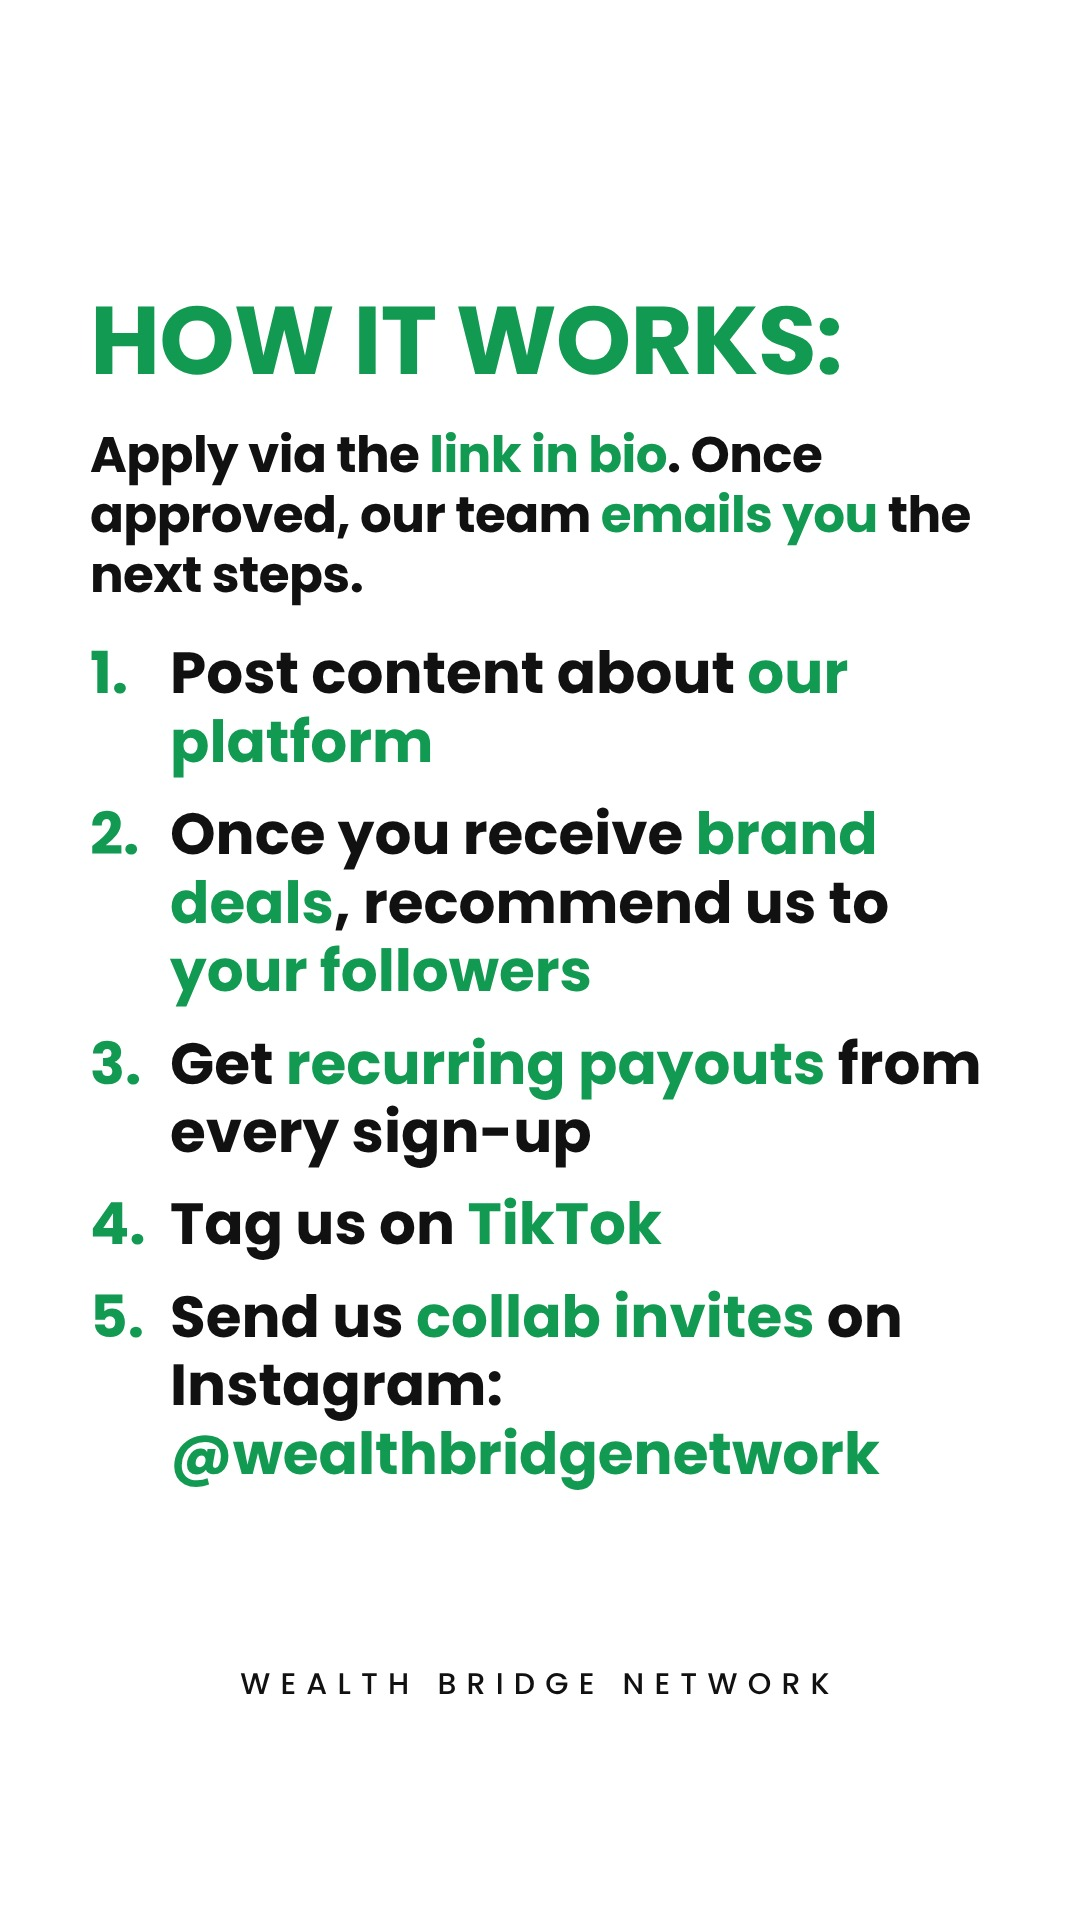
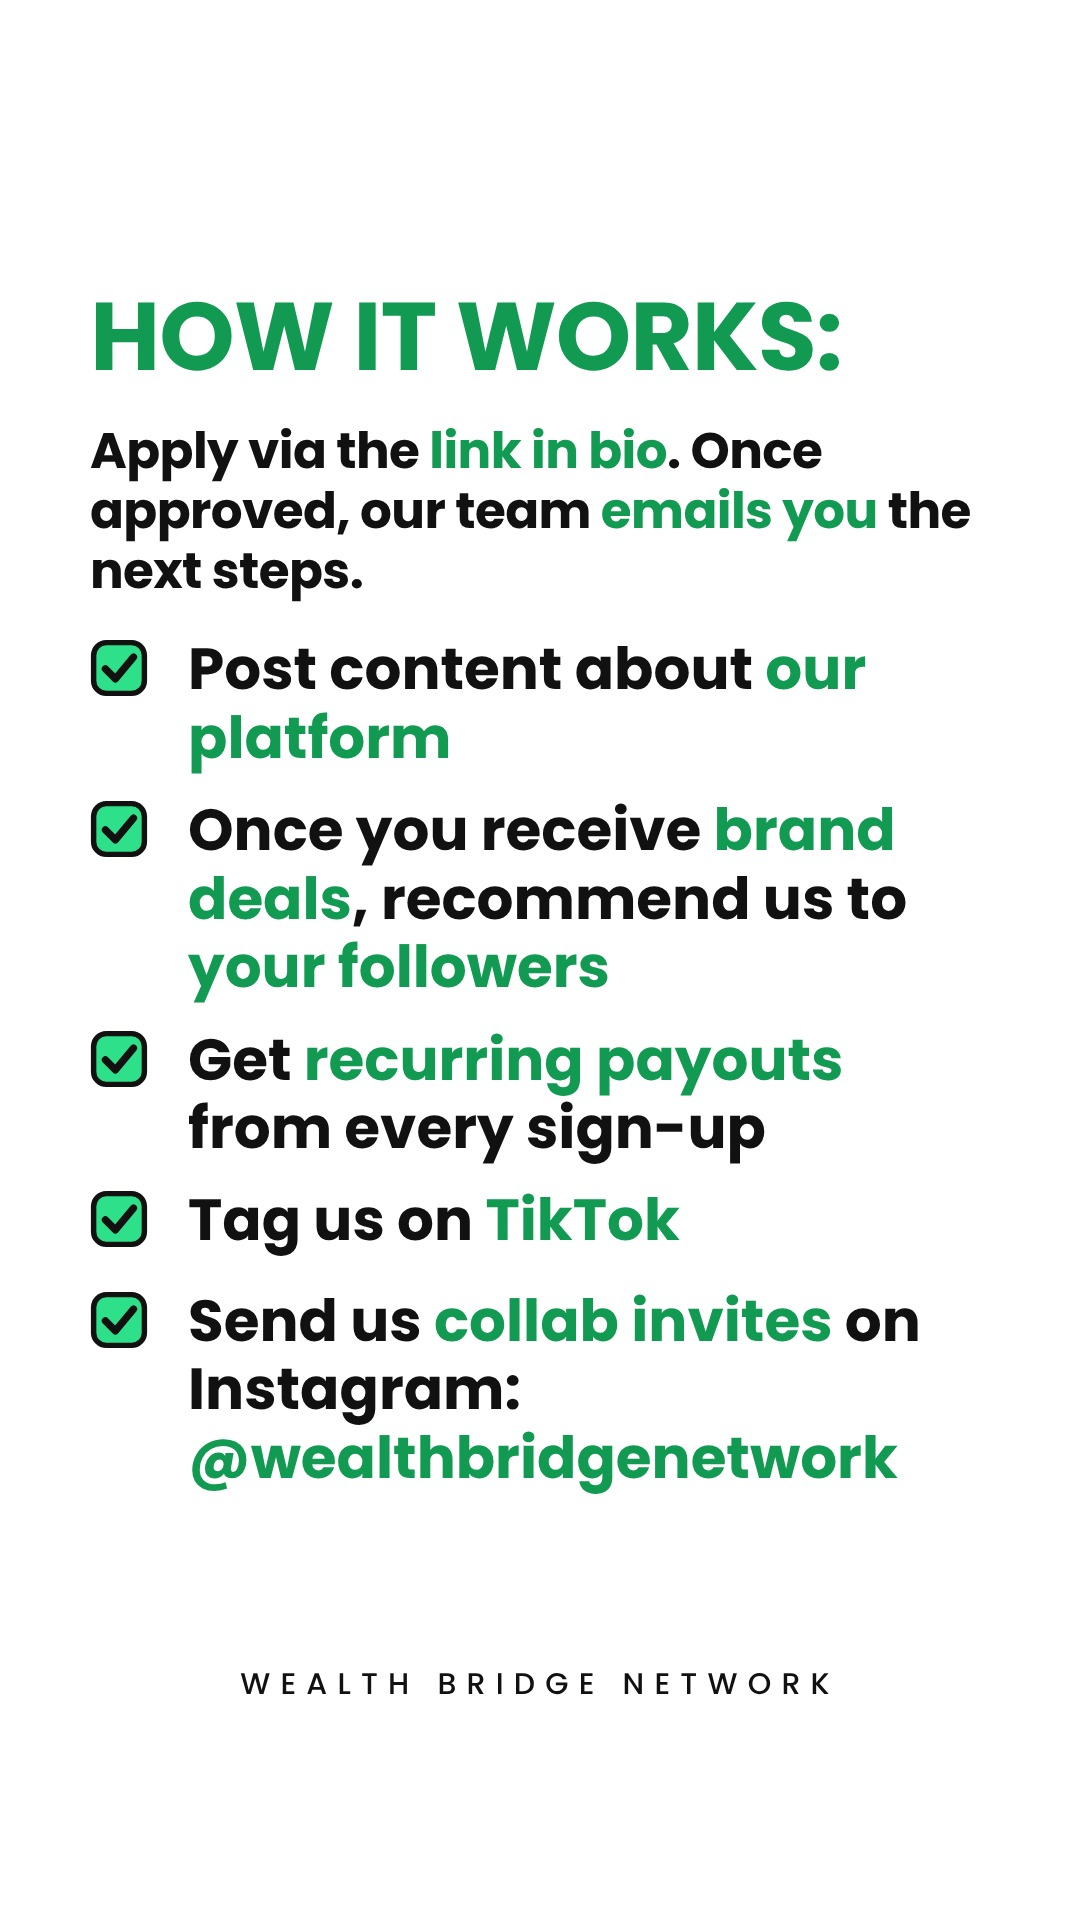
Highlights: affiliate how-it-works as a checklist
Claude-Session: https://claude.ai/code/session_01XWHiAuJ5usg3NqhhkBZ2QK

diff --git a/content/highlights.py b/content/highlights.py
@@ -64,7 +64,7 @@ dict(id="hl-affiliate", title="Affiliate", slides=[
  dict(head="How it *works:*", hd=96,
       text=["Apply via the *link in bio*. Once approved, our team *emails you* the next steps."], fs=50,
       items=["Post content about *our platform*", "Once you receive *brand deals*, recommend us to *your followers*", "Get *recurring payouts* from every sign-up",
-             "Tag us on *TikTok*", "Send us *collab invites* on Instagram: *@wealthbridgenetwork*"], **{"is": 58}),
+             "Tag us on *TikTok*", "Send us *collab invites* on Instagram: *@wealthbridgenetwork*"], **{"is": 58}, check=True),
  dict(hook="Share once.\n*Get paid*\n*monthly.*", hs=130,
       scene=lbl(450, 30, "YOUR MONTHS", INK, 40) + arrow(150, 100, 750, 80, -60, GREEN, 12)
       + ground(40, 860, 270) + month(130, 200, 0.7, "JAN") + month(290, 200, 0.7, "FEB") + month(450, 200, 0.7, "MAR")

diff --git a/scripts/render_story.py b/scripts/render_story.py
@@ -21,6 +21,13 @@ _slide_html = rd.slide_html
 def slide_html(sl):
     out = _slide_html(sl)
     extra = "".join(f"--{k}:{sl[k]}px;" for k in ("ks", "hd", "ah") if sl.get(k))
+    if sl.get("check"):
+        import re
+        box = ('<span class="n" style="min-width:76px"><svg viewBox="0 0 64 64" width="58" height="58" style="margin-top:4px">'
+               '<rect x="4" y="4" width="56" height="56" rx="14" fill="#2FE08A" stroke="#111" stroke-width="6"/>'
+               '<path d="M17,33 L28,44 L48,20" fill="none" stroke="#111" stroke-width="8" stroke-linecap="round" stroke-linejoin="round"/>'
+               '</svg></span>')
+        out = re.sub(r'<span class="n">\d+\.</span>', box, out)
     return out.replace('<div class="s" style="', f'<div class="s" style="{extra}', 1)
 
 
